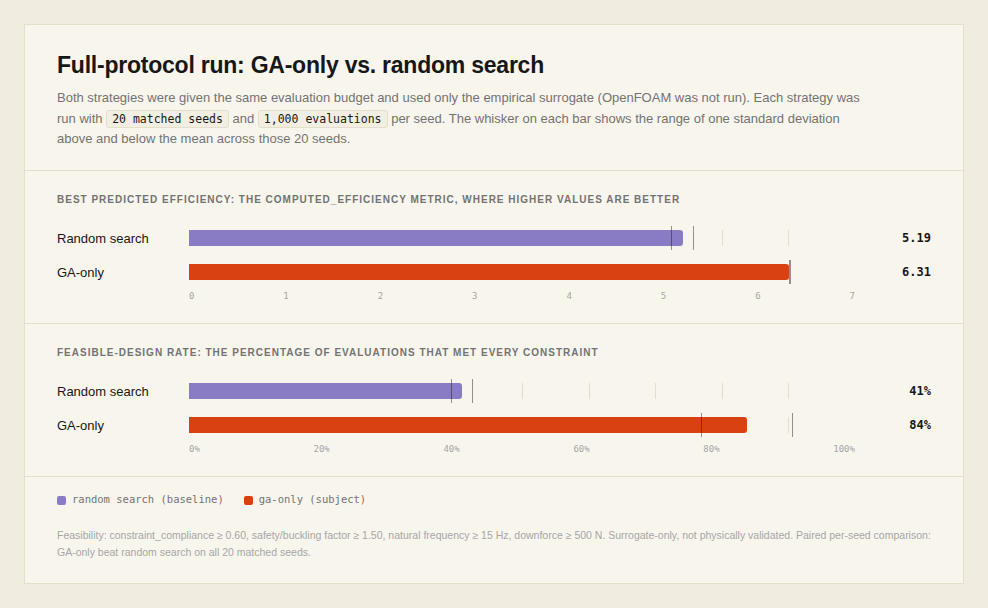
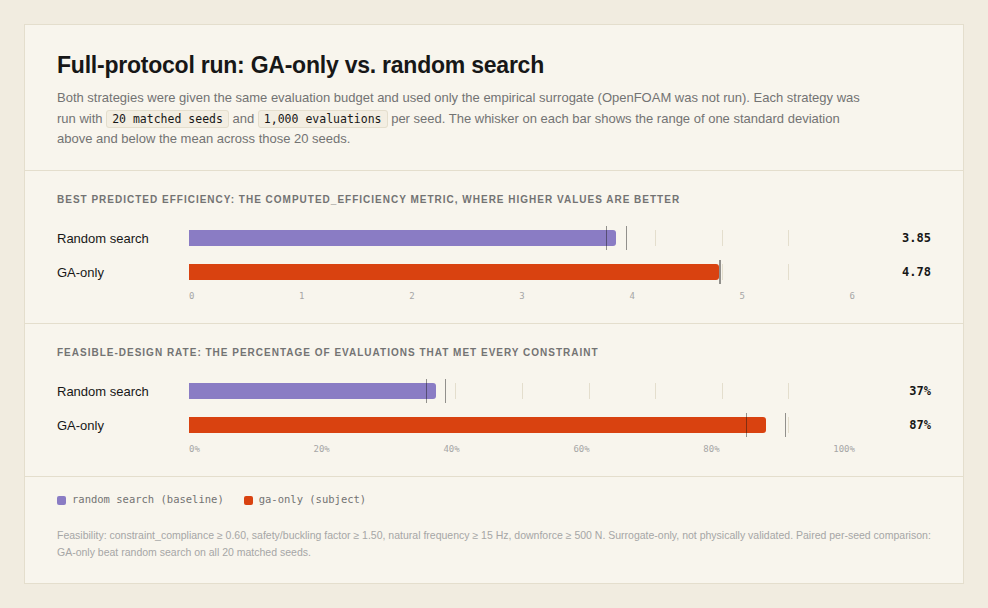
Regenerate phase-one and full-protocol results under the fixed surrogate
artifacts/phase_one and artifacts/phase_two were regenerated from
scratch on a clean tree with the corrected ground-effect formula.
Same qualitative result (GA-only beats random search on every metric),
different magnitudes: phase-one pilot efficiency 3.76 -> 4.49 (was
4.97 -> 5.43 under the buggy formula), full-protocol 3.85 -> 4.78 (was
5.19 -> 6.31), feasible rate 37.1% -> 86.7% (was 41.0% -> 83.7%).
Paired seed-level stats recomputed: Cohen's dz 9.66, paired t(19) 43.2,
Wilcoxon p < 0.0001, GA-only wins all 20 seeds.

todo.md and both result charts updated accordingly.

diff --git a/todo.md b/todo.md
@@ -17,17 +17,17 @@ coefficients beyond those constants are project-specific fits. The paper
 should describe the surrogate as a physics-informed heuristic, not a
 physics-based or validated model.
 
-**2026-09-17: the ground-effect formula has been fixed.** It previously
-contradicted published low-ride-height measurements and contained internal
-discontinuities; it is now fit by least squares to real data from J.
-Zerihan's PhD thesis (Univ. of Southampton, 2001). See
-[`docs/validation/README.md#fix-ground-effect-formula`](docs/validation/README.md#fix-ground-effect-formula).
-This means every result below (the phase-one pilot and the full-protocol run)
-was generated **under the old, unfixed formula**, since both predate this
-change. They remain a valid comparison of the two search strategies against
-each other, because both used the same surrogate, but do not reflect the
-current code, and would need to be regenerated if the paper wants results
-under the corrected surrogate.
+**2026-09-17: the ground-effect formula has been fixed and the results below
+regenerated under it.** It previously contradicted published low-ride-height
+measurements and contained internal discontinuities; it is now fit by least
+squares to real data from J. Zerihan's PhD thesis (Univ. of Southampton,
+2001). See
+[`docs/validation/README.md#fix-ground-effect-formula`](docs/validation/README.md#fix-ground-effect-formula)
+for the fit, and note the correction logged there: the first attempt at this
+fix targeted `cfd_analysis.py`, which turned out to have no effect on any
+result below, since `random_search.py`/`ga_only.py` exclusively go through
+`formula_constraints.py`'s separate, independent ground-effect
+implementation. Both are now fixed; the results below are current.
 
 ## 1. Freeze the paper claim
 
@@ -40,12 +40,13 @@ under the corrected surrogate.
 
 > **Phase-one pilot result:** Across three matched seeds and 100 surrogate
 > evaluations per strategy, GA-only achieved a higher best predicted efficiency
-> in all three seeds. Mean best efficiency increased from 4.971 for random
-> search to 5.429 for GA-only (+9.2%), while the feasible-design rate increased
-> from 42% to 63%. The gain came with lower predicted downforce, so this supports
-> an efficiency claim rather than a higher-downforce claim. These runs used the
-> empirical surrogate and are a pilot rather than the final paper protocol
-> (§4). Raw metadata, JSONL records, and summaries are stored under
+> in all three seeds. Mean best efficiency increased from 3.764 for random
+> search to 4.489 for GA-only (+19.3%), while the feasible-design rate increased
+> from 40% to 60%. The gain came with lower predicted downforce (mean 2855N for
+> random search's best-efficiency design versus 2545N for GA-only's), so this
+> supports an efficiency claim rather than a higher-downforce claim. These runs
+> used the empirical surrogate and are a pilot rather than the final paper
+> protocol (§4). Raw metadata, JSONL records, and summaries are stored under
 > [`artifacts/phase_one/`](artifacts/phase_one/).
 >
 > ![Phase-one pilot: GA-only vs. random search](paper/figures/phase_one_results.png)
@@ -92,32 +93,32 @@ seed. This pilot uses the empirical surrogate and must not invoke OpenFOAM.
 > **Full-protocol run:** 20 matched seeds, 1,000 evaluations per strategy per
 > seed, empirical surrogate only.
 >
-> Best feasible objective at the final budget: mean best efficiency was 5.19
-> for random search versus 6.31 for GA-only. Feasible-design rate was 41.0%
-> for random search versus 83.7% for GA-only; the rest were infeasible
+> Best feasible objective at the final budget: mean best efficiency was 3.85
+> for random search versus 4.78 for GA-only. Feasible-design rate was 37.1%
+> for random search versus 86.7% for GA-only; the rest were infeasible
 > designs, not evaluator failures (0 execution failures across all 40,000
 > evaluations for either strategy).
 >
 > Anytime performance (mean best-so-far across the 20 seeds, at evaluations
-> 50 / 100 / 250 / 500 / 750 / 1,000): random search reached 4.72 / 4.86 /
-> 5.01 / 5.07 / 5.14 / 5.19; GA-only reached 5.00 / 5.61 / 6.14 / 6.29 / 6.30 /
-> 6.31. GA-only's average result after only 100 evaluations already exceeds
+> 50 / 100 / 250 / 500 / 750 / 1,000): random search reached 3.56 / 3.67 /
+> 3.74 / 3.78 / 3.81 / 3.85; GA-only reached 3.71 / 4.26 / 4.71 / 4.77 / 4.78 /
+> 4.78. GA-only's average result after only 100 evaluations already exceeds
 > random search's average result at the full 1,000-evaluation budget.
 >
-> Evaluations to reach a fixed threshold (5.19, random search's own final
-> mean): GA-only reached it in all 20 seeds, after a mean of 56 evaluations
-> (median 59). Random search reached it in only 6 of 20 seeds within the full
-> 1,000-evaluation budget, taking a mean of 689 evaluations (median 722) when
+> Evaluations to reach a fixed threshold (3.85, random search's own final
+> mean): GA-only reached it in all 20 seeds, after a mean of 65 evaluations
+> (median 67). Random search reached it in only 8 of 20 seeds within the full
+> 1,000-evaluation budget, taking a mean of 587 evaluations (median 625) when
 > it did.
 >
 > Wall-clock time: the surrogate evaluator itself is cheap for both
-> strategies, about 0.20 seconds of evaluator time per 1,000-evaluation run
-> (about 0.20 ms per evaluation) for random search and GA-only alike.
+> strategies, about 0.17-0.18 seconds of evaluator time per 1,000-evaluation
+> run (about 0.17-0.18 ms per evaluation) for random search and GA-only alike.
 >
 > Paired seed-level comparison (20 matched seeds, best objective at the final
 > budget): GA-only beat random search on 20 of 20 seeds. Mean paired gap
-> +1.118 (sd 0.121), 95% CI [1.06, 1.17] (bootstrap and paired t-test agree),
-> Cohen's dz = 9.22, paired t(19) = 41.2 (p < 0.0001), Wilcoxon signed-rank
+> +0.929 (sd 0.096), 95% CI [0.886, 0.967] (bootstrap and paired t-test agree),
+> Cohen's dz = 9.66, paired t(19) = 43.2 (p < 0.0001), Wilcoxon signed-rank
 > W = 0 (p < 0.0001).
 >
 > Raw metadata, JSONL records, and summaries are stored under
